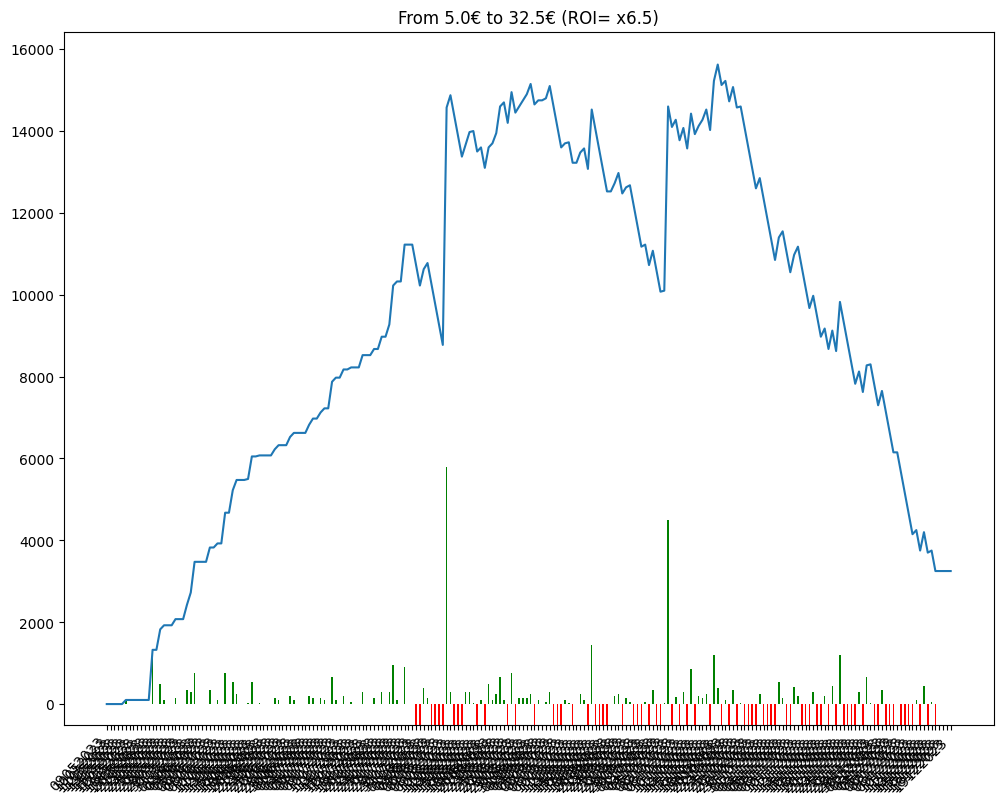
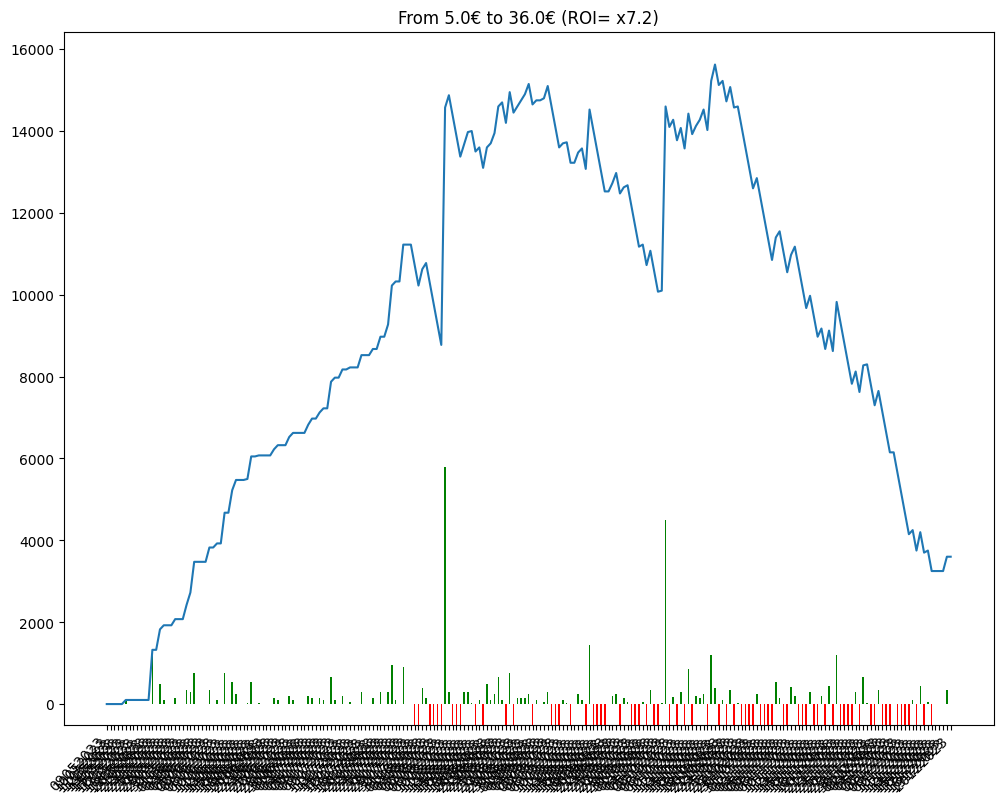
comment from python script

diff --git a/bethistory.html b/bethistory.html
@@ -86,7 +86,8 @@
             En observant la courbe 🤔, on peut avoir une idée visuelle de l'évolution des gains et ainsi évaluer le model utilisé 🧑🏫.
         </p>
         
-        <img src = "/candle.png" alt="candle chart"/><table><tr><td>Chevaux joués</td><td>Gains</td><td>URL Circuits</td></tr><tr><td>2 - DAR TOUNGI</td><td>0</td><td><a href=https://www.pmu.fr/turf/19122023/r4/c6 target="_blank">https://www.pmu.fr/turf/19122023/r4/c6</a></td></tr>
+        <img src = "/candle.png" alt="candle chart"/><table><tr><td>Chevaux joués</td><td>Gains</td><td>URL Circuits</td></tr><tr><td>6 - CHILL CHIBI</td><td>0</td><td><a href=https://www.pmu.fr/turf/20122023/r2/c5 target="_blank">https://www.pmu.fr/turf/20122023/r2/c5</a></td></tr>
+<tr><td>2 - DAR TOUNGI</td><td>+350</td><td><a href=https://www.pmu.fr/turf/19122023/r4/c6 target="_blank">https://www.pmu.fr/turf/19122023/r4/c6</a></td></tr>
 <tr><td>8 - MANERO</td><td>0</td><td><a href=https://www.pmu.fr/turf/17122023/r3/c4 target="_blank">https://www.pmu.fr/turf/17122023/r3/c4</a></td></tr>
 <tr><td>8 - JOYFUL LASS</td><td>0</td><td><a href=https://www.pmu.fr/turf/16122023/r6/c8 target="_blank">https://www.pmu.fr/turf/16122023/r6/c8</a></td></tr>
 <tr><td>8 - WALDEZA</td><td>-500</td><td><a href=https://www.pmu.fr/turf/15122023/r4/c1 target="_blank">https://www.pmu.fr/turf/15122023/r4/c1</a></td></tr>
